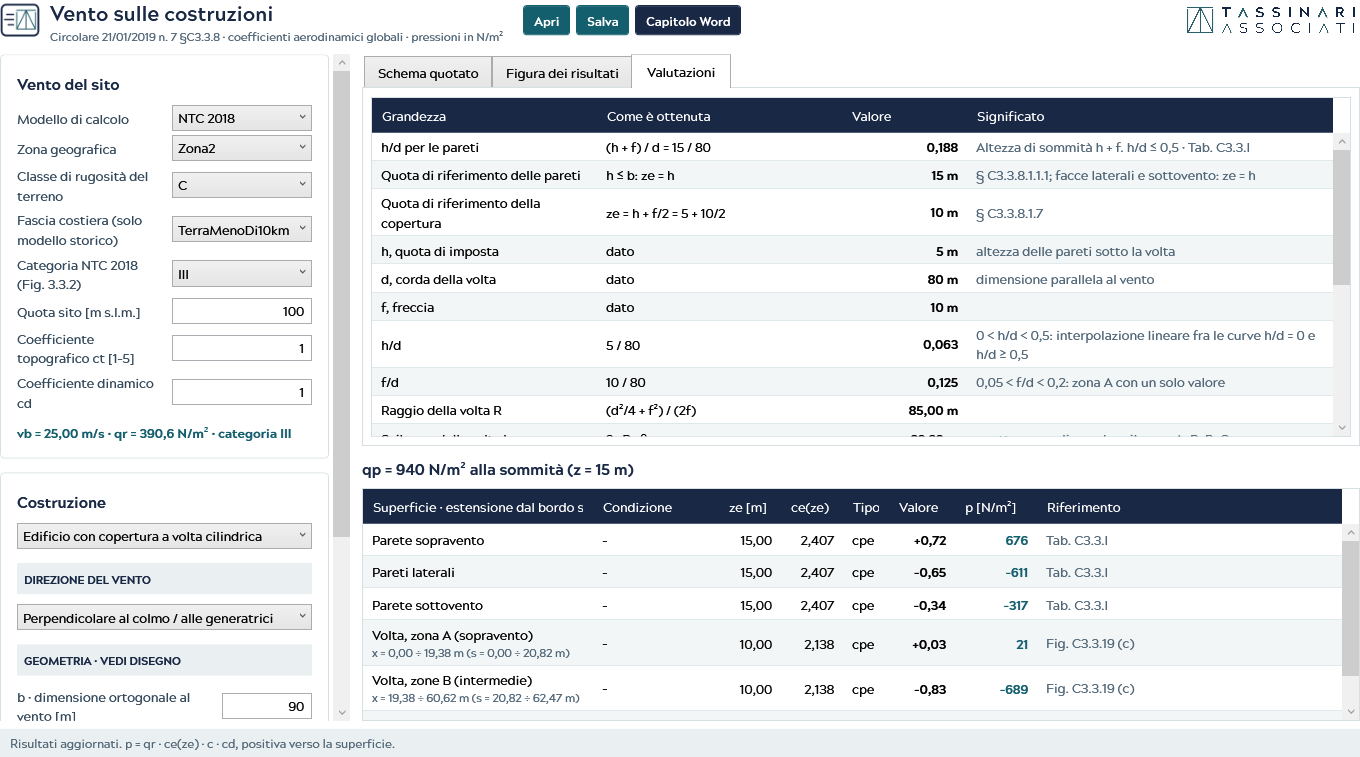
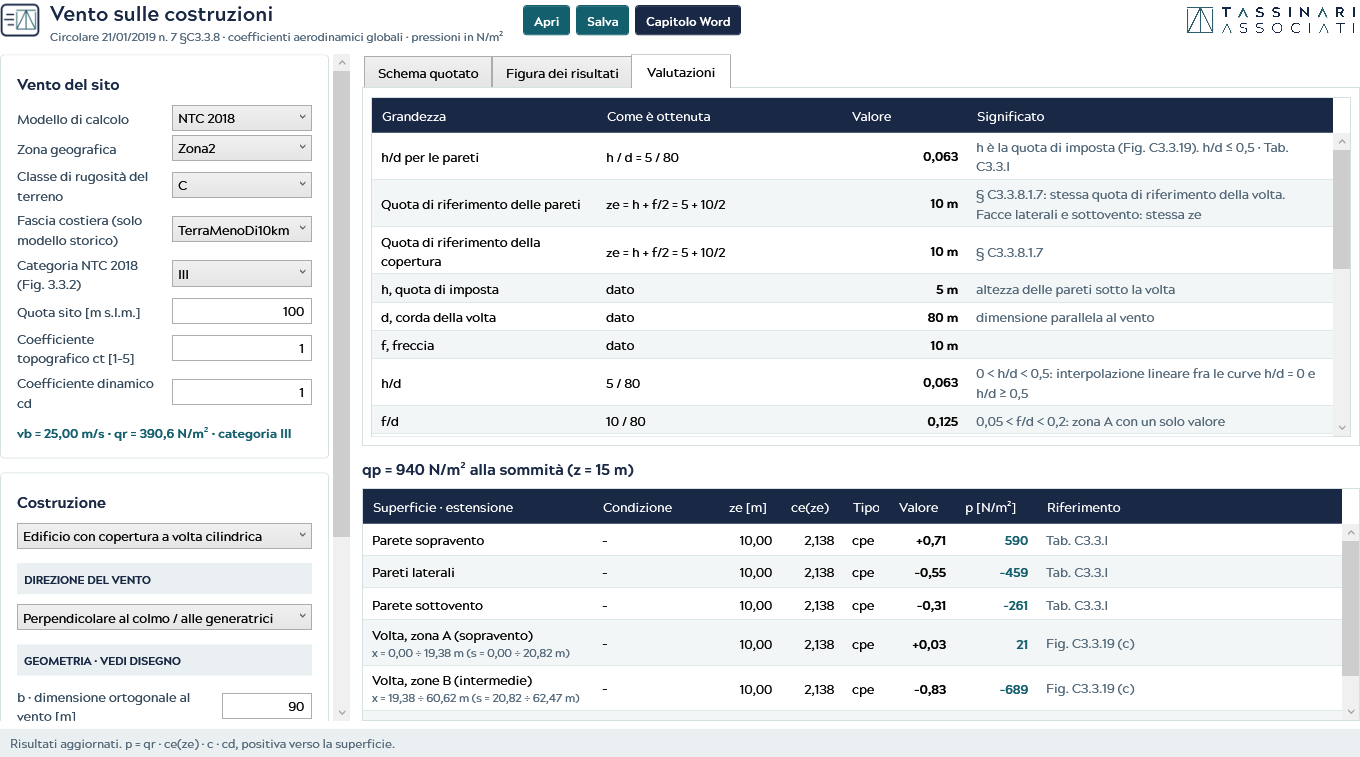
Vento sulle costruzioni: pareti della volta con ze = h + f/2 e testi sempre in formato italiano
- pareti di un edificio con volta cilindrica: quota di riferimento ze = h + f/2,
  la stessa della copertura (C3.3.8.1.7), e rapporto h/d con la quota di imposta
  h della Fig. C3.3.19; prima usavano l'altezza di sommita h + f per entrambi
- valutazioni, estensioni e figure formattate sempre in italiano: i test non
  dipendono piu dalle impostazioni internazionali della macchina (correzione CI)

diff --git a/src/STA.Carichi.Vento.Core/Aerodinamica/CalcolatoreCoefficienti.cs b/src/STA.Carichi.Vento.Core/Aerodinamica/CalcolatoreCoefficienti.cs
@@ -55,7 +55,7 @@ namespace Vento.Aerodinamica
         public static double CpeFaccia(GeometriaCostruzione g, FacciaEdificio faccia)
         {
             if (!(g.D > 0)) return 0;
-            double hSuD = g.AltezzaSommità / g.D;
+            double hSuD = AltezzaPareti(g) / g.D;
             switch (faccia)
             {
                 case FacciaEdificio.Sopravento: return CoefficientiPressione.PareteSopravento(hSuD);
@@ -83,17 +83,36 @@ namespace Vento.Aerodinamica
 
         #region pareti
 
+        /// <summary>
+        /// Altezza h da usare nel rapporto h/d delle pareti (Tab. C3.3.I): la quota massima della copertura;
+        /// per la volta cilindrica la quota di imposta, cioè la h della Fig. C3.3.19, la stessa del rapporto h/d della volta.
+        /// </summary>
+        private static double AltezzaPareti(GeometriaCostruzione g)
+        {
+            return g.Tipologia == TipologiaCostruzione.CoperturaVoltaCilindrica ? g.H : g.AltezzaSommità;
+        }
+
+        /// <summary>
+        /// Quota di riferimento ze delle pareti [m]: la quota di sommità; per la volta cilindrica ze = h + f/2,
+        /// la stessa quota di riferimento della copertura (§ C3.3.8.1.7).
+        /// </summary>
+        private static double QuotaPareti(GeometriaCostruzione g)
+        {
+            return g.Tipologia == TipologiaCostruzione.CoperturaVoltaCilindrica ? g.H + g.Freccia / 2 : g.AltezzaSommità;
+        }
+
         private static void AggiungiPareti(GeometriaCostruzione g, RisultatoCoefficienti r)
         {
             const string rif = "Tab. C3.3.I";
-            double h = g.AltezzaSommità;
-            double hSuD = h / g.D;
-            double sopravento = CoefficientiPressione.PareteSopravento(hSuD);
             bool volta = g.Tipologia == TipologiaCostruzione.CoperturaVoltaCilindrica;
-            Val(r, "h/d per le pareti", (volta ? "(h + f) / d = " : "h / d = ") + F(h) + " / " + F(g.D), F(hSuD, "0.000"),
-                (volta ? "Altezza di sommità h + f. " : "") + (hSuD <= 0.5 ? "h/d ≤ 0,5" : hSuD <= 1 ? "0,5 < h/d ≤ 1" : hSuD <= 5 ? "1 < h/d ≤ 5" : "h/d > 5, fuori campo") + " · Tab. C3.3.I");
-            Val(r, "Quota di riferimento delle pareti", h <= g.B ? "h ≤ b: ze = h" : "h > b: ze = b fino a z = b, poi ze = h", h <= g.B ? F(h) + " m" : F(g.B) + " m e " + F(h) + " m",
-                "§ C3.3.8.1.1.1; facce laterali e sottovento: ze = h");
+            double h = QuotaPareti(g);
+            double hSuD = AltezzaPareti(g) / g.D;
+            double sopravento = CoefficientiPressione.PareteSopravento(hSuD);
+            Val(r, "h/d per le pareti", "h / d = " + F(AltezzaPareti(g)) + " / " + F(g.D), F(hSuD, "0.000"),
+                (volta ? "h è la quota di imposta (Fig. C3.3.19). " : "") + (hSuD <= 0.5 ? "h/d ≤ 0,5" : hSuD <= 1 ? "0,5 < h/d ≤ 1" : hSuD <= 5 ? "1 < h/d ≤ 5" : "h/d > 5, fuori campo") + " · Tab. C3.3.I");
+            string quota = volta ? "ze = h + f/2 = " + F(g.H) + " + " + F(g.Freccia) + "/2" : "ze = h";
+            Val(r, "Quota di riferimento delle pareti", h <= g.B ? quota : "ze > b: ze = b fino a z = b, poi " + quota, h <= g.B ? F(h) + " m" : F(g.B) + " m e " + F(h) + " m",
+                (volta ? "§ C3.3.8.1.7: stessa quota di riferimento della volta. " : "§ C3.3.8.1.1.1. ") + "Facce laterali e sottovento: stessa ze");
 
             if (h <= g.B)
             {
@@ -542,13 +561,13 @@ namespace Vento.Aerodinamica
         /// <summary>Numero nella cultura corrente, senza zeri superflui</summary>
         private static string F(double valore, string formato = "0.###")
         {
-            return valore.ToString(formato, CultureInfo.CurrentCulture);
+            return valore.ToString(formato, CultureInfo.GetCultureInfo("it-IT"));
         }
 
         /// <summary>Coefficiente con segno esplicito</summary>
         private static string S(double valore)
         {
-            return valore.ToString("+0.00;-0.00;0.00", CultureInfo.CurrentCulture);
+            return valore.ToString("+0.00;-0.00;0.00", CultureInfo.GetCultureInfo("it-IT"));
         }
 
         private static void Val(RisultatoCoefficienti r, string grandezza, string espressione, string valore, string nota)
@@ -558,7 +577,7 @@ namespace Vento.Aerodinamica
 
         private static string FasciaSopravento(GeometriaCostruzione g)
         {
-            return "fascia sopravento (" + ProfonditàFascia(g).ToString("0.##", CultureInfo.CurrentCulture) + " m)";
+            return "fascia sopravento (" + ProfonditàFascia(g).ToString("0.##", CultureInfo.GetCultureInfo("it-IT")) + " m)";
         }
 
         private static void Cpe(RisultatoCoefficienti r, string superficie, string condizione, double valore, double ze, string riferimento,

diff --git a/tests/STA.Calcolo.Tests/WindBuildingTests.cs b/tests/STA.Calcolo.Tests/WindBuildingTests.cs
@@ -91,7 +91,9 @@ internal static class WindBuildingTests
             // volta: ze = h + f/2
             var volta = CalcolatoreCoefficienti.Calcola(Geometry(TipologiaCostruzione.CoperturaVoltaCilindrica, d: 16, h: 6));
             Near(volta.Coefficienti.Single(c => c.Superficie.StartsWith("Volta, zone B")).QuotaRiferimento, 8, "ze volta");
-            Near(volta.Coefficienti[0].QuotaRiferimento, 10, "ze pareti = h + f");
+            // pareti della volta: ze = h + f/2 come la copertura, h/d con la quota di imposta (6/16 = 0,375)
+            Near(volta.Coefficienti[0].QuotaRiferimento, 8, "ze pareti = h + f/2"); Near(Value(volta, "Parete sopravento"), .7 + .1 * .375, "cpe sopravento volta");
+            Near(Value(volta, "Pareti laterali"), -.5 - .8 * .375, "cpe laterali volta"); Near(Value(volta, "Parete sottovento"), -.3 - .2 * .375, "cpe sottovento volta");
             // dati non validi: nessun coefficiente e messaggio
             var vuoto = CalcolatoreCoefficienti.Calcola(Geometry(TipologiaCostruzione.CoperturaPiana, b: 0));
             Assert(!vuoto.Valido && vuoto.Coefficienti.Count == 0 && vuoto.Avvertenze.Count == 1, "geometria non valida");
@@ -152,8 +154,13 @@ internal static class WindBuildingTests
                 CasoPressioneInterna.NonConsiderata, FacciaEdificio.Sopravento);
             string Valore(string nome) => azioni.Valutazioni.Single(v => v.Grandezza == nome).Valore;
             Assert(Valore("h, quota di imposta") == "5 m" && Valore("d, corda della volta") == "80 m" && Valore("f, freccia") == "10 m", "dati h, d, f");
-            Assert(Valore("h/d") == 0.0625.ToString("0.000") && Valore("f/d") == 0.125.ToString("0.000"), "rapporti h/d e f/d");
-            Assert(Valore("Quota di riferimento della copertura") == "10 m" && Valore("Peso dell'interpolazione su h/d") == 0.125.ToString("0.000"), "ze e peso");
+            Assert(Valore("h/d") == "0,063" && Valore("f/d") == "0,125", "rapporti h/d e f/d");
+            Assert(Valore("Quota di riferimento della copertura") == "10 m" && Valore("Peso dell'interpolazione su h/d") == "0,125", "ze e peso");
+            // pareti: ze = h + f/2 = 10 m, h/d = 5/80; categoria III: ce(10) = 0,2²·ln(100)·[7 + ln(100)]
+            Assert(Valore("Quota di riferimento delle pareti") == "10 m" && Valore("h/d per le pareti") == "0,063", "valutazioni delle pareti");
+            double ce10 = .04 * Math.Log(100) * (7 + Math.Log(100)); var parete = azioni.Azioni[0];
+            Near(parete.Ze, 10, "ze parete"); Near(parete.Coefficiente, .7 + .1 * .0625, "cpe parete"); Near(parete.Pressione, 390.625 * ce10 * (.7 + .1 * .0625), "pressione parete", 1e-9);
+            Near(azioni.Azioni[1].Coefficiente, -.5 - .8 * .0625, "cpe laterali"); Near(azioni.Azioni[2].Coefficiente, -.3 - .2 * .0625, "cpe sottovento");
             Assert(azioni.Valutazioni.Single(v => v.Grandezza == "f/d").Nota.StartsWith("0,05 < f/d < 0,2") && azioni.Valutazioni.Single(v => v.Grandezza == "h/d").Nota.Contains("interpolazione"), "campo applicato");
             Assert(azioni.Condizioni.Count == 0 && azioni.PerCondizione("").Count == azioni.Azioni.Count, "una sola condizione di carico");
             Assert(azioni.Azioni.Single(r => r.Superficie.StartsWith("Volta, zona A")).Estensione.StartsWith("x = "), "estensione leggibile");

diff --git a/apps/STA.Calcolo.Desktop/Controls/WindPressureDrawing.cs b/apps/STA.Calcolo.Desktop/Controls/WindPressureDrawing.cs
@@ -146,7 +146,7 @@ namespace STA.Calcolo.Desktop.Controls
                 double px = P(x, 0).X;
                 dc.DrawLine(Quota, new Point(px, yQuota - 5), new Point(px, yQuota + 5));
                 if (px - ultimaEtichetta < 34) continue;
-                Scrivi(dc, x.ToString("0.##", CultureInfo.CurrentCulture), new Point(px, yQuota + 6), TestoQuota, 10.5, false, 0.5, 0);
+                Scrivi(dc, x.ToString("0.##", CultureInfo.GetCultureInfo("it-IT")), new Point(px, yQuota + 6), TestoQuota, 10.5, false, 0.5, 0);
                 ultimaEtichetta = px;
             }
             Scrivi(dc, "x [m]", new Point(x1 + 12, yQuota), TestoQuota, 10.5, false, 0, 0.5);
@@ -161,7 +161,7 @@ namespace STA.Calcolo.Desktop.Controls
             Scrivi(dc, "vento", new Point(41, yVento + 9), ColoreVento, 11, false, 0.5, 0);
         }
 
-        private static string Valore(double pressione) => pressione.ToString("+#,0;-#,0;0", CultureInfo.CurrentCulture);
+        private static string Valore(double pressione) => pressione.ToString("+#,0;-#,0;0", CultureInfo.GetCultureInfo("it-IT"));
 
         /// <summary>Lettera della zona quando la Circolare la identifica (A, B, C); altrimenti nessuna</summary>
         private static string Zona(AzioneSuperficie riga)
@@ -247,7 +247,7 @@ namespace STA.Calcolo.Desktop.Controls
             Point ancora = P(centro, QuotaProfilo(profilo, centro)) + Normale(profilo, P, centro) * (spessore + 5);
             string zona = Zona(riga);
             string testo = (zona.Length > 0 ? zona + "   " : "") + Valore(riga.Pressione);
-            if (riga.Forza.HasValue) testo += "   F = " + riga.Forza.Value.ToString("0.0", CultureInfo.CurrentCulture) + " kN";
+            if (riga.Forza.HasValue) testo += "   F = " + riga.Forza.Value.ToString("0.0", CultureInfo.GetCultureInfo("it-IT")) + " kN";
             Scrivi(dc, testo, ancora, positivo ? TestoPressione : TestoDepressione, 11, true, 0.5, 1);
         }
 

diff --git a/src/STA.Carichi.Vento.Core/Aerodinamica/CalcolatoreAzioni.cs b/src/STA.Carichi.Vento.Core/Aerodinamica/CalcolatoreAzioni.cs
@@ -118,7 +118,7 @@ namespace Vento.Aerodinamica
             double sommità = geometria.AltezzaSommità;
             esito.PressionePiccoSommità = PressionePicco(vento, sommità);
             esito.Valutazioni.AddRange(coefficienti.Valutazioni);
-            var cultura = CultureInfo.CurrentCulture;
+            var cultura = CultureInfo.GetCultureInfo("it-IT");
             esito.Valutazioni.Add(new Valutazione("Pressione cinetica di picco alla sommità", "qp = qr · ce(" + sommità.ToString("0.##", cultura) + " m) = " +
                 vento.Qr.ToString("0.0", cultura) + " · " + WindProfile.Exposure(vento.Categoria, sommità, vento.Ct).ToString("0.000", cultura),
                 esito.PressionePiccoSommità.ToString("#,0", cultura) + " N/m²", "categoria di esposizione " + vento.Categoria));
@@ -171,7 +171,7 @@ namespace Vento.Aerodinamica
         public static string DescriviEstensione(IReadOnlyList<TrattoSviluppo> tratti)
         {
             if (tratti == null || tratti.Count == 0) return "";
-            var cultura = CultureInfo.CurrentCulture;
+            var cultura = CultureInfo.GetCultureInfo("it-IT");
             string Intervallo(double a, double b) => a.ToString("0.00", cultura) + " ÷ " + b.ToString("0.00", cultura);
             bool inclinato = tratti.Any(t => Math.Abs(t.SInizio - t.XInizio) > 5e-3 || Math.Abs(t.SFine - t.XFine) > 5e-3);
             string testo = "x = " + string.Join("; ", tratti.Select(t => Intervallo(t.XInizio, t.XFine))) + " m";
@@ -182,7 +182,7 @@ namespace Vento.Aerodinamica
         /// <summary>Testo del coefficiente con segno esplicito, nella cultura corrente (es. "+0,20")</summary>
         public static string ConSegno(double valore)
         {
-            return valore.ToString("+0.00;-0.00", CultureInfo.CurrentCulture);
+            return valore.ToString("+0.00;-0.00", CultureInfo.GetCultureInfo("it-IT"));
         }
     }
 }

diff --git a/apps/STA.Calcolo.Desktop/ViewModels/WindBuildingViewModel.cs b/apps/STA.Calcolo.Desktop/ViewModels/WindBuildingViewModel.cs
@@ -213,7 +213,8 @@ public sealed class WindBuildingViewModel : ObservableObject
     private void Recalculate()
     {
         if (loading) return;
-        var culture = CultureInfo.CurrentCulture;
+        // La finestra è in italiano (Language="it-IT"): anche i riepiloghi usano sempre la virgola decimale.
+        var culture = CultureInfo.GetCultureInfo("it-IT");
         try
         {
             var input = Input(); var outcome = WindBuildingProject.Calculate(input);

diff --git a/docs/VENTO-COSTRUZIONE.md b/docs/VENTO-COSTRUZIONE.md
@@ -404,13 +404,15 @@ applicato, così ogni risultato si può ricontrollare sulla Circolare. Per la vo
 | peso dell'interpolazione | `min(h/d; 0,5) / 0,5` |
 | `cpe,A` adottato, `cpe,B`, `cpe,C` | valori usati nella tabella dei risultati |
 
-Per le pareti è indicato `h/d` con l'altezza di sommità (per la volta `h + f`) e la quota di riferimento; per
+Per le pareti sono indicati `h/d` (per la volta con la quota di imposta `h`) e la quota di riferimento
+(per la volta `ze = h + f/2`); per
 le altre coperture l'inclinazione con il campo della tabella, la profondità della fascia sopravento e il passo
 dei tratti; per le tettoie il grado di bloccaggio e l'area della falda.
 
 Esempio, volta con `b = 90`, `d = 80`, `h = 5`, `f = 10` m: `h/d = 0,0625`, `f/d = 0,125`; la zona A vale `+0,20`
 sulla curva `h/d = 0` e `−1,20` su quella `h/d ≥ 0,5`; con peso `0,125` si ottiene
-`cpe,A = 0,20 + 0,125·(−1,20 − 0,20) = +0,025`; `cpe,B = −0,825`, `cpe,C = −0,40`.
+`cpe,A = 0,20 + 0,125·(−1,20 − 0,20) = +0,025`; `cpe,B = −0,825`, `cpe,C = −0,40`. Pareti: `ze = 5 + 10/2 = 10` m,
+`h/d = 0,0625`, `cpe = +0,71` sopravento, `−0,55` laterali, `−0,31` sottovento.
 
 ## Salvare e riaprire i dati
 
@@ -472,6 +474,7 @@ Le immagini di questa pagina sono prodotte dalla prova a video (`artifacts/vento
   (§ C3.3.8.6 – C3.3.8.7), attrito (§ C3.3.8.8). Il coefficiente dinamico `cd` è inserito a mano.
 - Fuori dal campo delle tabelle (h/d > 5, |α| > 75°, f/d > 0,5, tettoie oltre i limiti di α) il
   calcolo prosegue con i valori limite e mostra un'avvertenza.
-- Per le pareti di un edificio con volta `h/d` e la quota di riferimento usano l'altezza di sommità `h + f`:
-  la Circolare non lo precisa, la scelta è a favore di sicurezza ed è dichiarata nelle valutazioni.
+- Per le pareti di un edificio con volta la quota di riferimento è `ze = h + f/2`, la stessa della copertura
+  (§ C3.3.8.1.7), e il rapporto `h/d` della Tab. C3.3.I usa la quota di imposta `h` della Fig. C3.3.19.
+  La pressione interna resta riferita alla quota di sommità `h + f`.
 - La relazione è solo in Word; non è prevista l'esportazione PDF.
